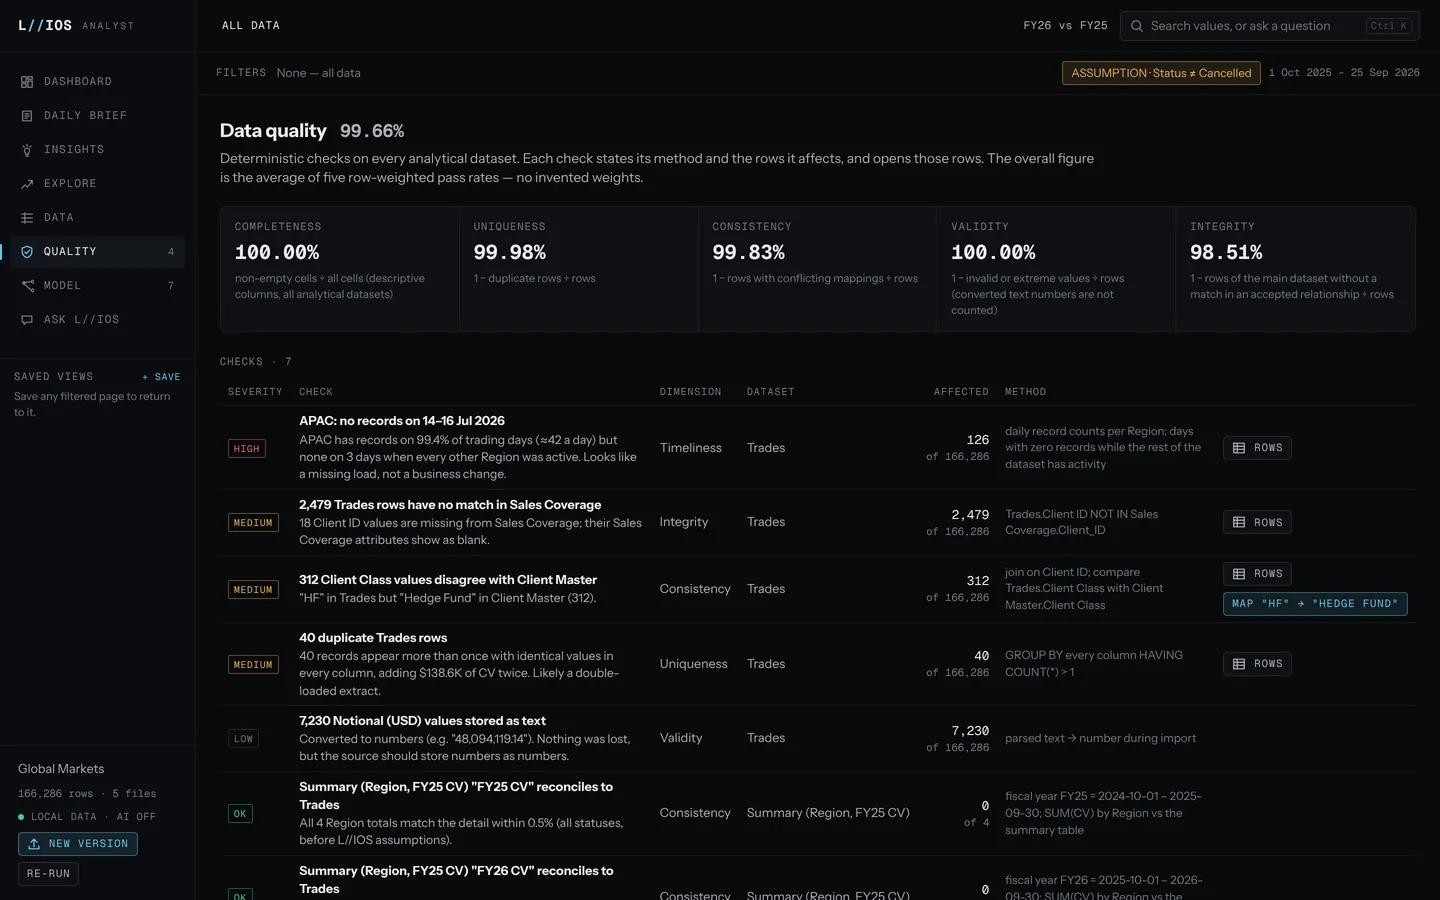
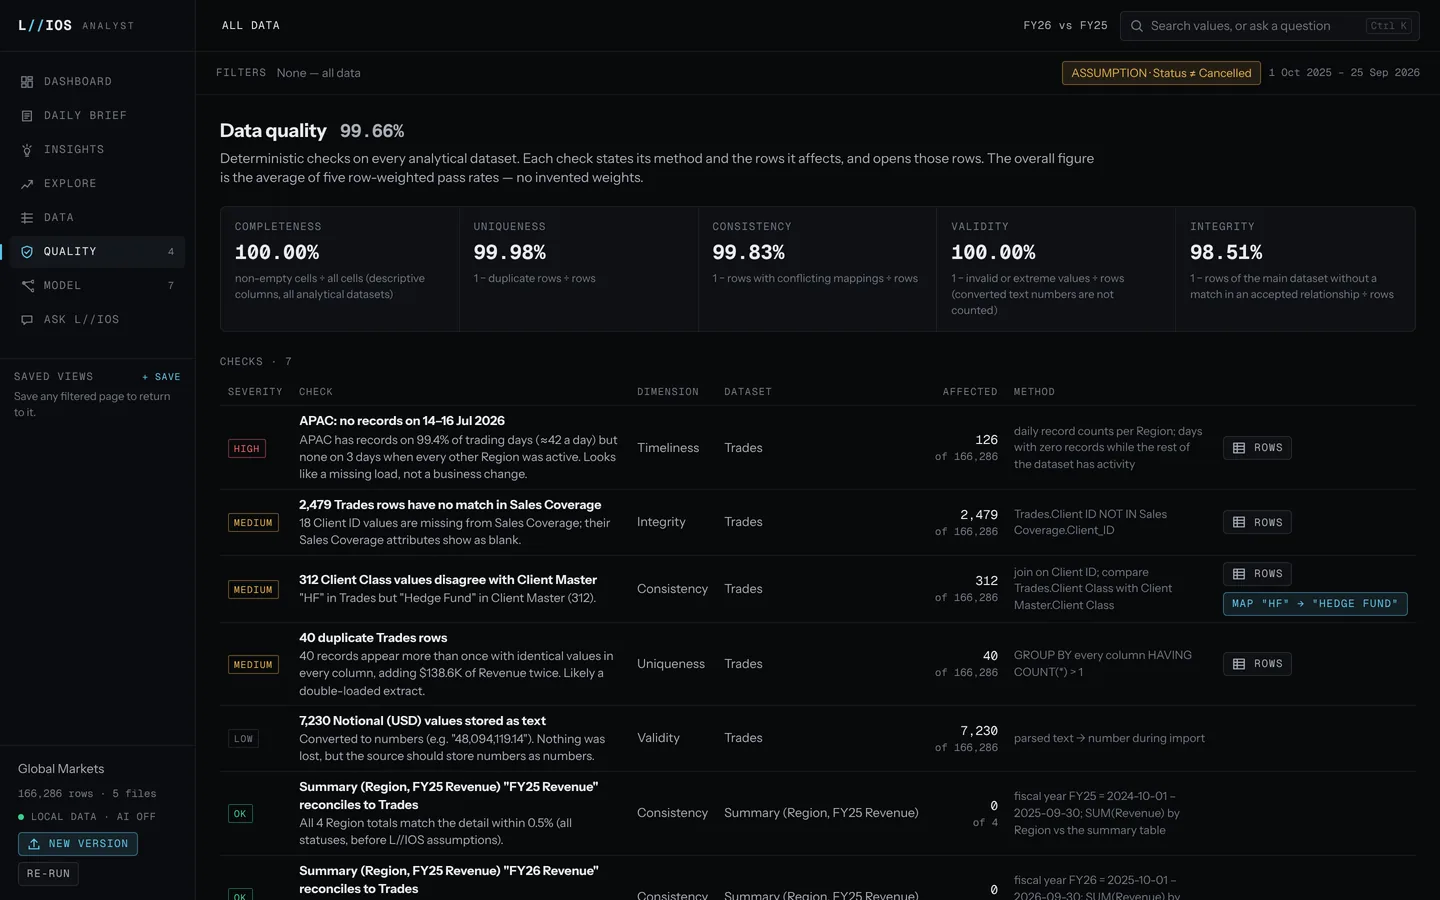
Analyst screenshots retaken with Revenue labels and no dataset name
Claude-Session: https://claude.ai/code/session_01DF4M3AYUxrGyQV4VdDHgg8

diff --git a/src/content.ts b/src/content.ts
@@ -323,7 +323,7 @@ export const lios = {
       ],
       stack: ['TypeScript', 'React 19', 'Node.js', 'SQLite (node:sqlite)', 'esbuild', 'Custom SVG charts', 'Playwright QA'],
       proof: [
-        '166,286 synthetic trades, 5 files, 9 data regions understood in about 17 seconds',
+        '166,286 synthetic trades, 5 files, 9 data regions understood in under 25 seconds',
         'Engine totals checked against an independent recomputation from the raw workbook',
         'Measured on a 72 MB workbook: 831,430 rows ready to explore in about 87 s',
         'Raw data never leaves the computer; AI is off by default',

diff --git a/CONTENT_REVIEW.md b/CONTENT_REVIEW.md
@@ -15,7 +15,7 @@ site. To change any of it, edit `src/content.ts`, or ask Claude to.
 ### L//IOS facts, taken from your READMEs (please confirm)
 | # | Claim on the site | Source |
 |---|------|--------|
-| 1.4 | Analyst: "166,286 synthetic trades, 5 files, 9 data regions understood in about 17 seconds" | My run of your build in this session |
+| 1.4 | Analyst: "166,286 synthetic trades, 5 files, 9 data regions understood in under 25 seconds" (17 s and 23 s across two runs) | My run of your build in this session |
 | 1.5 | Analyst: "Measured on a 72 MB workbook: 831,430 rows ready to explore in about 87 s" | lios-analyst README |
 | 1.6 | Markets: "87 automated tests" | lios README |
 | 1.7 | Statuses: Analyst and Markets **Working**; Health **In development** | READMEs + QA runs. Database connectors, SEC/FRED and AI marked Prototype; nutrition marked In development (screens exist; the README still lists it as "not yet"). |
